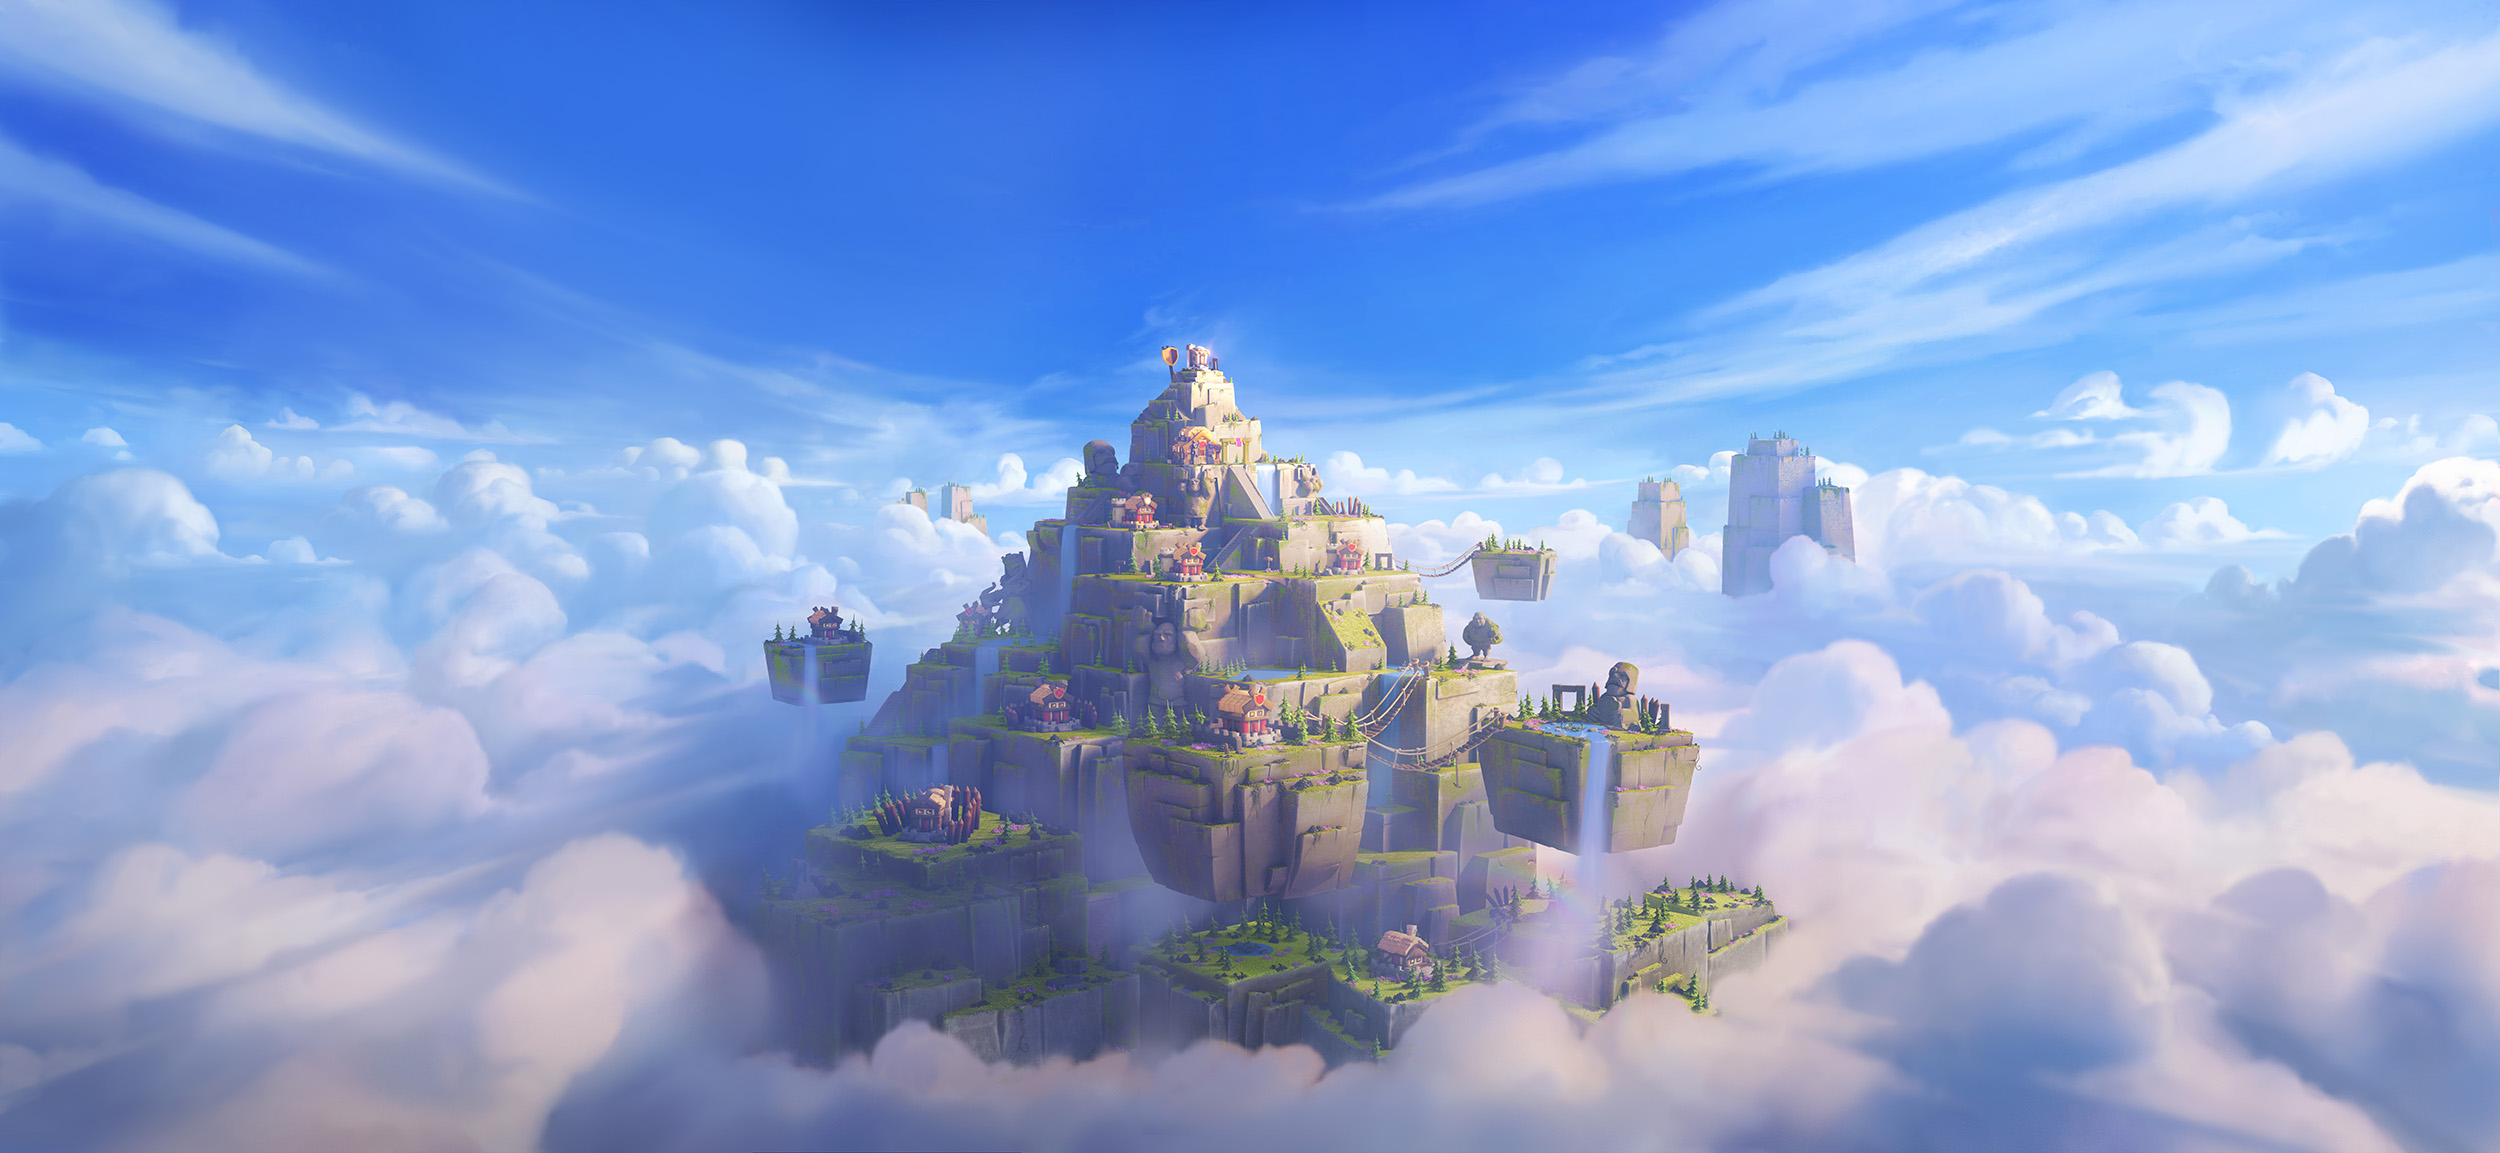
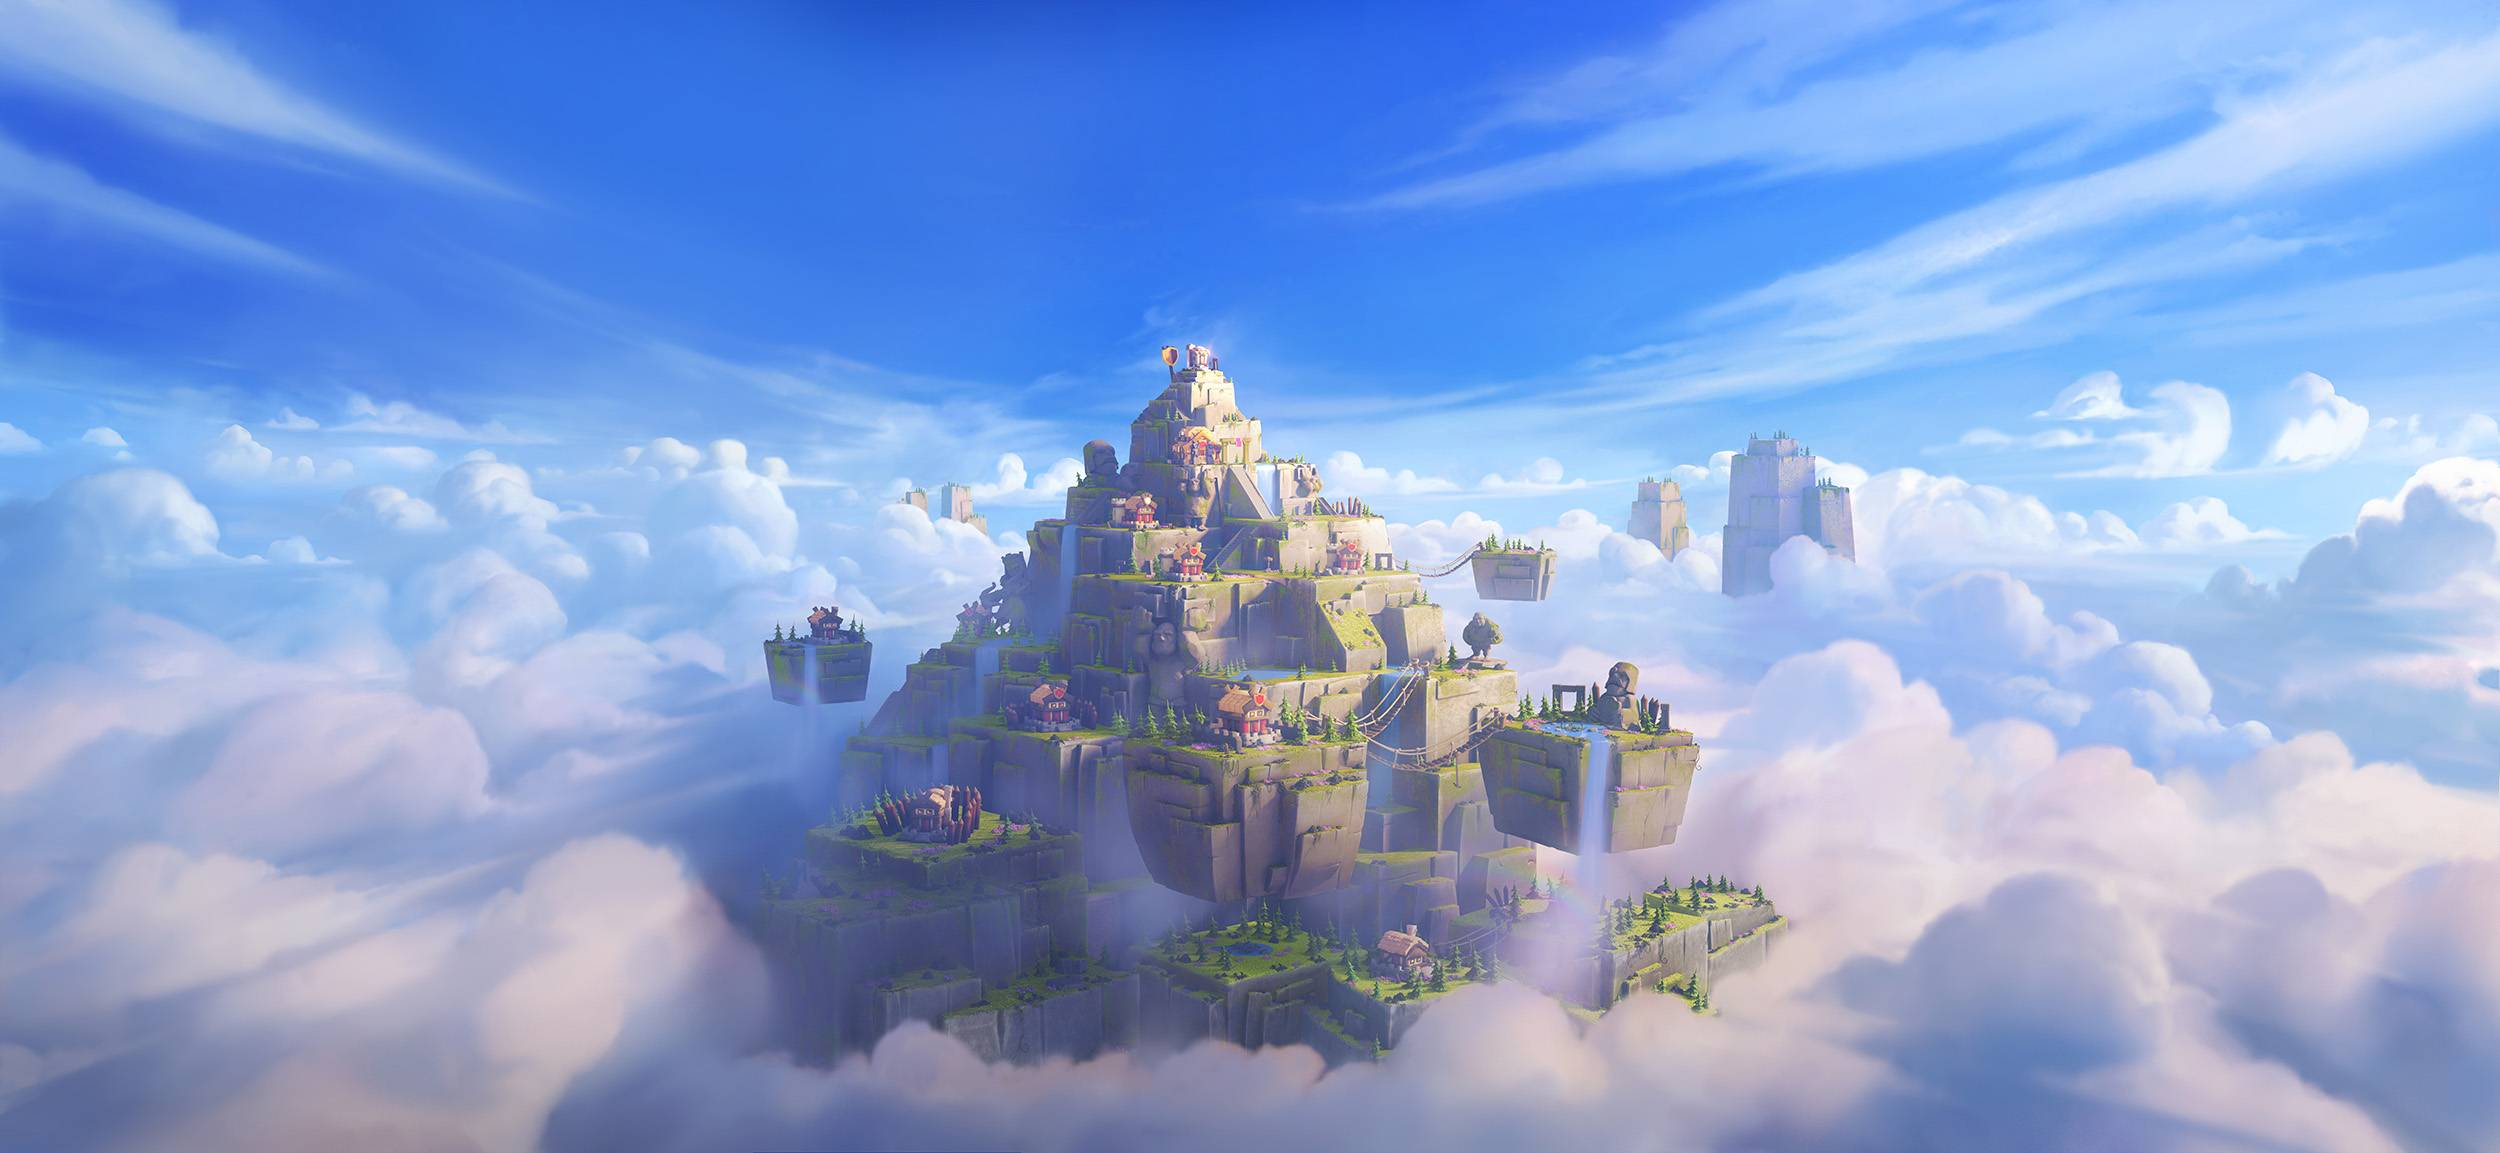
header-bg reduced & welcome text added

diff --git a/src/views/Home.vue b/src/views/Home.vue
@@ -1,4 +1,9 @@
 <template>
+  <div
+    v-if="visibleText"
+    class="fixed right-20 bottom-4 bg-red-700 text-white z-50 animate-pulse p-2 rounded-md shadow-md shadow-red-900">
+    Clan Startupga xush kelibsiz!!!
+  </div>
   <NavBar />
   <ClanInfo />
   <MembersInfo />
@@ -10,4 +15,11 @@ import NavBar from "../components/NavBar.vue";
 import ClanInfo from "../components/ClanInfo.vue";
 import MembersInfo from "../components/MembersInfo.vue";
 import Footer from "../components/Footer.vue";
+import { ref } from "vue";
+
+const visibleText = ref(true);
+
+setTimeout(() => {
+  visibleText.value = false;
+}, 5000);
 </script>
